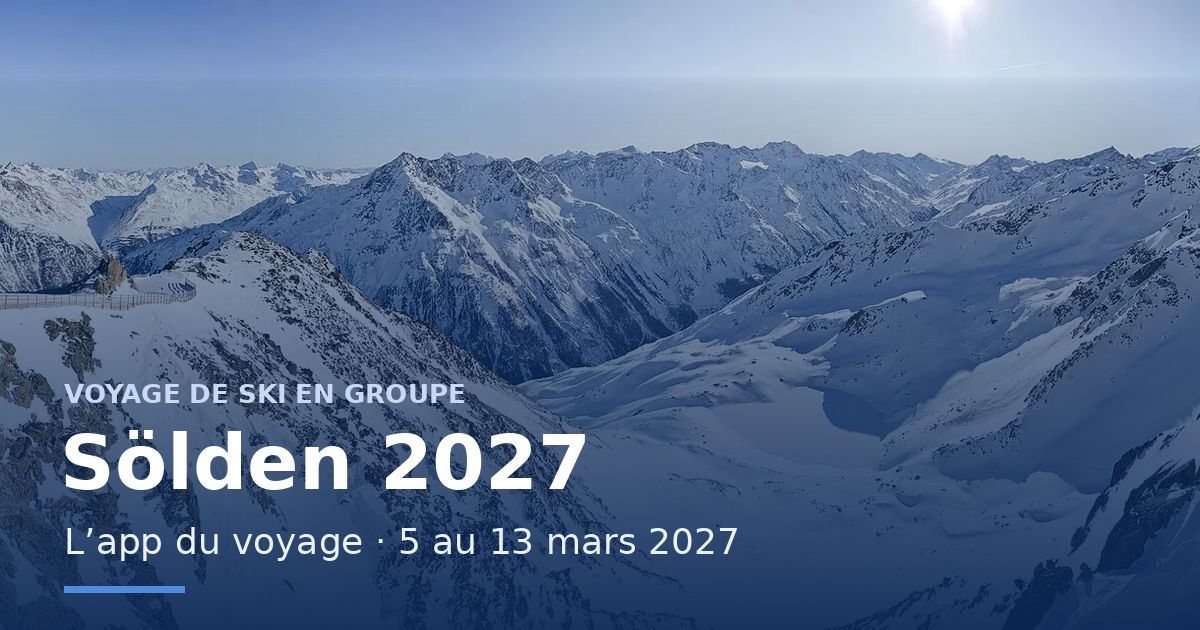
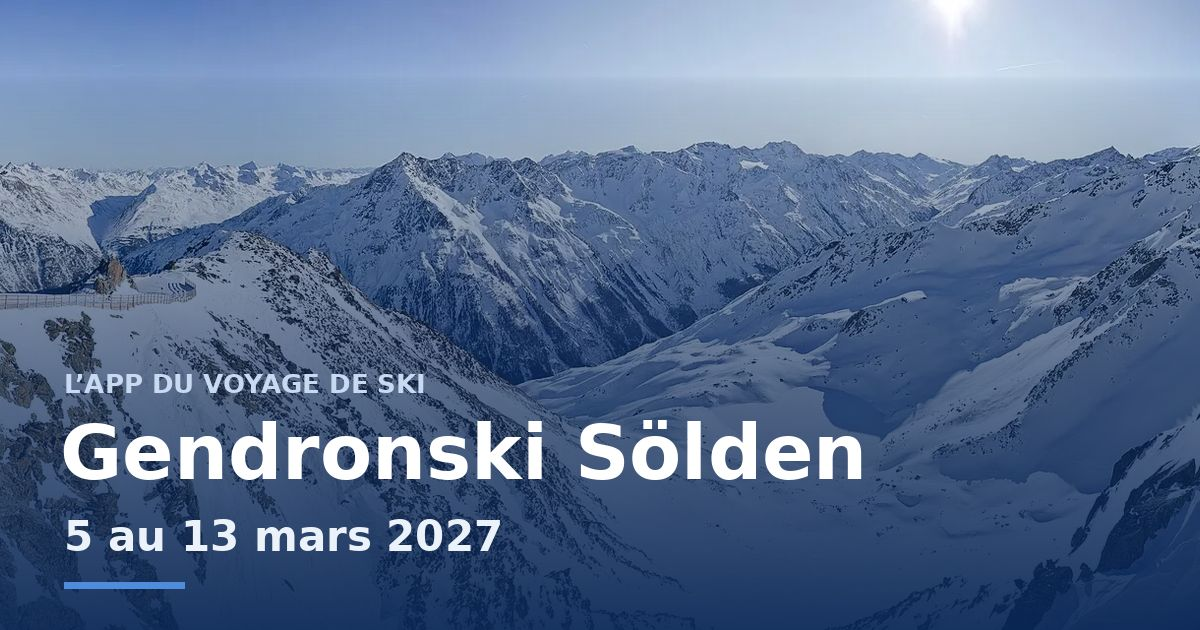
Add files via upload

Changed region(s): [[0.0308, 0.573, 0.74, 0.7841], [0.0308, 0.8143, 0.6167, 0.9651]]

diff --git a/index.html b/index.html
@@ -3,14 +3,14 @@
 <head>
 <meta charset="utf-8">
 <meta name="viewport" content="width=device-width,initial-scale=1,viewport-fit=cover">
-<title>Sölden 2027 · Voyage de ski</title>
+<title>Gendronski Sölden · 5 au 13 mars 2027</title>
 <meta name="description" content="L’app du voyage de ski en groupe à Sölden, du 5 au 13 mars 2027 : programme, annonces, pistes ouvertes, carte et infos pratiques.">
 <meta name="theme-color" content="#13509f">
 <meta property="og:type" content="website">
 <meta property="og:site_name" content="Mon accompagnateur">
 <meta property="og:locale" content="fr_CA">
 <meta property="og:url" content="https://monaccompagnateur.ca/solden-voyage-2027/">
-<meta property="og:title" content="Sölden 2027 · L’app du voyage">
+<meta property="og:title" content="Gendronski Sölden · 5 au 13 mars 2027">
 <meta property="og:description" content="Voyage de ski en groupe du 5 au 13 mars 2027 : programme, annonces, pistes ouvertes, météo et carte GPS.">
 <meta property="og:image" content="https://monaccompagnateur.ca/solden-voyage-2027/og.jpg">
 <meta property="og:image:width" content="1200">
@@ -38,11 +38,12 @@ button:disabled{opacity:.55}
 /* En-tête */
 .hero{position:relative;color:#fff;background:var(--pine-d) center/cover no-repeat;min-height:210px;display:flex;align-items:flex-end}
 .hero:after{content:"";position:absolute;inset:0;background:linear-gradient(0deg,#082a5cf0 0%,#0b3a78b0 45%,#0b3a7838 100%)}
-body:not(.on-accueil) .hero{min-height:118px}body:not(.on-accueil) .hero h1{font-size:30px}body:not(.on-accueil) .hero p:not(.overline){display:none}body:not(.on-accueil) .credit{display:none}
+body:not(.on-accueil) .hero{min-height:118px}body:not(.on-accueil) .hero h1{font-size:30px}body:not(.on-accueil) .hero .h-dates{font-size:16px;margin-top:2px}body:not(.on-accueil) .hero .overline{display:none}body:not(.on-accueil) .credit{display:none}
 .hero .wrap{position:relative;z-index:1;width:100%;padding-top:calc(28px + env(safe-area-inset-top));padding-bottom:20px}
 .hero .overline{color:#ffffffd0}
 .hero h1{font-size:44px;letter-spacing:-1px}
 .hero p{margin:6px 0 0;font-size:15px;color:#ffffffe0}
+.hero .h-dates{margin:4px 0 0;font-size:24px;font-weight:700;letter-spacing:-.3px;color:#fff}
 .credit{font-size:9px;color:var(--muted);padding:5px 16px;text-align:right}
 .credit a{color:inherit}
 /* Onglets */
@@ -206,7 +207,7 @@ details.more summary{cursor:pointer;color:var(--pine);font-size:13px;margin-top:
 .ul{margin:0;padding-left:18px}.ul li{margin:4px 0}
 .foot{text-align:center;font-size:11px;color:var(--muted);padding:18px 0 26px}
 .verif{background:#f5e6e4;color:#97302b;border:1px solid #e3b7b2;border-radius:10px;padding:10px 14px;font-size:13px;margin:0 0 12px;white-space:pre-wrap}
-@media(max-width:420px){.hero h1{font-size:38px}.facts{grid-template-columns:1fr}}
+@media(max-width:420px){.hero h1{font-size:36px}.hero .h-dates{font-size:21px}.facts{grid-template-columns:1fr}}
 @media print{nav.tabs,.mapbox,.mapbar{display:none!important}.view[hidden]{display:block!important}body{padding:0}}
 </style>
 <style id="leaflet-css">
@@ -886,9 +887,9 @@ svg.leaflet-image-layer.leaflet-interactive path {
 <body>
 <header class="hero" style="background-image:url('hero.webp')">
   <div class="wrap">
-    <p class="overline" id="h-dates">5 – 13 mars 2027 · Ötztal, Autriche</p>
-    <h1 id="h-title">Sölden 2027</h1>
-    <p id="h-sub">Voyage de ski en groupe</p>
+    <p class="overline" id="h-sub">Ötztal · Autriche</p>
+    <h1 id="h-title">Gendronski Sölden</h1>
+    <p class="h-dates" id="h-dates">5 au 13 mars 2027</p>
   </div>
 </header>
 <p class="credit">Photo : Gaislachkogl, Sloth · <a href="https://creativecommons.org/licenses/by/3.0/" target="_blank" rel="noopener">CC BY 3.0</a> · <a href="https://commons.wikimedia.org/wiki/File:Gaislachkogl,_3058_m_-_panoramio.jpg" target="_blank" rel="noopener">source</a></p>
@@ -1052,7 +1053,7 @@ svg.leaflet-image-layer.leaflet-interactive path {
 </section>
 </main>
 
-<script id="voyage-defaut" type="application/json">{"titre": "Sölden 2027", "sousTitre": "Voyage de ski en groupe", "debut": "2027-03-05", "fin": "2027-03-13", "niveau": "Intermédiaire-avancé", "accompagnateur": {"nom": "Mathieu", "role": "Votre accompagnateur", "courriel": ""}, "annonces": [{"date": "2026-11-03T07:00", "fuseau": "America/Montreal", "texte": "Bienvenue dans l’app du voyage! Installez-la sur votre écran d’accueil (Partager › Sur l’écran d’accueil). Le programme et les annonces se mettront à jour ici jusqu’au départ."}], "avantDepart": [{"date": "2027-02-19", "fuseau": "America/Montreal", "heure": "", "titre": "Réunion d’information sur Teams", "lieu": "En ligne · Microsoft Teams", "note": "Infos générales sur le voyage et réponses à vos questions. Date et heure à confirmer; le lien de la réunion sera envoyé dans le groupe WhatsApp.", "lien": "", "lienTexte": "Rejoindre la réunion Teams", "rdv": true, "aConfirmer": true}], "programme": [{"date": "2027-03-05", "fuseau": "America/Montreal", "titre": "Départ de Montréal", "items": [{"heure": "14:45", "titre": "Rendez-vous à la porte d’embarquement", "lieu": "Aéroport Montréal-Trudeau (YUL)", "note": "Rendez-vous 2 h avant le départ. Prévoyez d’arriver à l’aéroport assez tôt pour l’enregistrement des bagages et la sécurité. Je vous y attendrai avec une affiche GENDRONSKI.", "rdv": true}, {"heure": "16:45", "titre": "Vol Montréal → Zurich", "lieu": "Swiss · YUL → ZRH", "note": "Vol de nuit. Gardez dans votre bagage à main : passeport, médicaments, chargeur et une tenue de rechange."}]}, {"date": "2027-03-06", "fuseau": "Europe/Vienna", "titre": "Arrivée et bienvenue", "items": [{"heure": "06:15", "titre": "Arrivée à Zurich", "lieu": "Aéroport de Zurich (ZRH)", "note": "Arrivée vers 6 h 15. Point de rencontre au carrousel à bagages, avant de sortir de l’aérogare.", "aConfirmer": false, "rdv": true}, {"heure": "", "titre": "Transfert vers Sölden", "lieu": "Zurich → Sölden", "note": "Transfert en autocar vers Sölden.", "aConfirmer": false}, {"heure": "12:00", "titre": "Installation à l’hôtel", "lieu": "Hotel Bäckelar Wirt", "note": "Arrivée à l’hôtel vers 12 h.", "aConfirmer": false}, {"heure": "18:00", "titre": "Cocktail de bienvenue", "lieu": "Bar de l’hôtel Bäckelar Wirt", "note": "Présentation du programme de la semaine et remise des forfaits de ski.", "rdv": true}]}, {"date": "2027-03-07", "fuseau": "Europe/Vienna", "titre": "Ski", "items": [{"heure": "", "titre": "Journée de ski", "lieu": "Domaine de Sölden", "note": "Programme de la journée à venir.", "aConfirmer": true}]}, {"date": "2027-03-08", "fuseau": "Europe/Vienna", "titre": "Ski", "items": [{"heure": "", "titre": "Journée de ski", "lieu": "Domaine de Sölden", "note": "Programme de la journée à venir.", "aConfirmer": true}]}, {"date": "2027-03-09", "fuseau": "Europe/Vienna", "titre": "Ski", "items": [{"heure": "", "titre": "Journée de ski", "lieu": "Domaine de Sölden", "note": "Programme de la journée à venir.", "aConfirmer": true}]}, {"date": "2027-03-10", "fuseau": "Europe/Vienna", "titre": "Ski", "items": [{"heure": "", "titre": "Journée de ski", "lieu": "Domaine de Sölden", "note": "Programme de la journée à venir.", "aConfirmer": true}]}, {"date": "2027-03-11", "fuseau": "Europe/Vienna", "titre": "Ski", "items": [{"heure": "", "titre": "Journée de ski", "lieu": "Domaine de Sölden", "note": "Programme de la journée à venir.", "aConfirmer": true}]}, {"date": "2027-03-12", "fuseau": "Europe/Vienna", "titre": "Ski", "items": [{"heure": "", "titre": "Journée de ski", "lieu": "Domaine de Sölden", "note": "Dernière journée sur les pistes. Récupérez vos skis et vos bottes au local à skis avant 18 h. Programme à venir.", "aConfirmer": true}]}, {"date": "2027-03-13", "fuseau": "Europe/Vienna", "titre": "Retour", "items": [{"heure": "05:30", "titre": "Départ de l’hôtel", "lieu": "Hotel Bäckelar Wirt", "note": "Libération des chambres avant 5 h 30. Heure de départ du transfert à confirmer.", "aConfirmer": true}, {"heure": "", "titre": "Vol de retour vers Montréal", "lieu": "Zurich → Montréal", "note": "Horaire à confirmer.", "aConfirmer": true}]}], "lieux": [{"id": "hotel", "nom": "Hotel Bäckelar Wirt", "detail": "Dorfstraße 125, 6450 Sölden", "lat": 46.95866, "lng": 11.00943}], "hotel": {"nom": "Hotel Bäckelar Wirt", "adresse": "Dorfstraße 125, 6450 Sölden, Autriche", "points": ["À côté de la gare aval de la télécabine Gaislachkogl; la piste se termine à environ 80 m de l’hôtel.", "Arrêt de ski-bus juste devant l’hôtel.", "Local à skis avec sèche-chaussures.", "Sauna, bain de vapeur et cabine infrarouge.", "Arrivée de 14 h à 21 h · départ avant 10 h (fiche de l’hôtel, à confirmer pour le groupe)."]}, "bagages": {"soute": [{"t": "Sac à skis", "d": "Skis et bâtons"}, {"t": "Sac à bottes", "d": "Bottes de ski"}, {"t": "1 bagage de 23 kg", "d": "Vêtements et effets personnels"}], "noteSoute": "Le sac à skis et le sac à bottes sont en plus du bagage de 23 kg.", "cabine": [{"t": "1 bagage à main", "d": "Format cabine, dans le compartiment au-dessus du siège"}, {"t": "1 sac personnel", "d": "Sac à dos ou sac à main, sous le siège devant vous"}], "important": "Très important : les batteries externes et les batteries au lithium voyagent avec vous en cabine, jamais en soute.", "conseils": ["Gardez dans votre bagage à main : passeport, médicaments, chargeur et une tenue de rechange.", "Mettez une étiquette à votre nom sur chaque sac."]}, "documents": {"liste": ["Passeport valide au moins 3 mois après la date de retour", "Assurance voyage : numéro de police et téléphone d’assistance", "Carte de crédit et un peu d’euros", "Confirmation de vol et documents de voyage reçus de Gendron Ski"], "notes": ["À l’arrivée en Europe, un contrôle biométrique (empreintes et photo) est fait au premier passage à la frontière : prévoyez un peu d’attente à Zurich."]}, "infosSki": ["Niveau du groupe : intermédiaire-avancé. Les suggestions sont surtout des pistes rouges, avec quelques bleues pour varier ou souffler.", "Forfait, location de skis et cours : les détails seront donnés au cocktail de bienvenue.", "Avant chaque journée, consultez l’onglet Ski pour voir les remontées et pistes ouvertes."], "organisateur": {"nom": "Gendron Ski", "site": "https://www.voyagesgendron.com/ski/"}, "liens": [{"type": "whatsapp", "titre": "Groupe WhatsApp du voyage", "url": "https://chat.whatsapp.com/JQN05rN1hKiBw5gP0Eb2wo"}, {"type": "facebook", "titre": "Groupe Facebook du voyage", "url": "https://www.facebook.com/share/g/1CKP25dum8/?mibextid=wwXIfr"}, {"type": "site", "titre": "Gendron Ski", "url": "https://www.voyagesgendron.com/ski/"}], "meteo": {"points": [{"domaine": "soelden", "nom": "Village", "lat": 46.9655, "lng": 11.0076, "altitude": 1370}, {"domaine": "soelden", "nom": "Mi-station", "lat": 46.95, "lng": 10.986, "altitude": 2174}, {"domaine": "soelden", "nom": "Sommets", "lat": 46.937, "lng": 10.965, "altitude": 3040}, {"domaine": "gurgl", "nom": "Village", "lat": 46.8705, "lng": 11.0272, "altitude": 1910}, {"domaine": "gurgl", "nom": "Sommets", "lat": 46.8807, "lng": 11.0858, "altitude": 3000}]}, "webcams": [{"domaine": "soelden", "nom": "Village", "altitude": 1377, "image": "https://panodata.panomax.com/cams/5572/mobile_800x600.jpg", "lien": "https://soelden.panomax.com/ort-winter"}, {"domaine": "soelden", "nom": "Gaislachkogl · mi-station", "altitude": 2174, "image": "https://panodata.panomax.com/cams/6657/mobile_800x600.jpg", "lien": "https://soelden.panomax.com/gaislachkogl-mittelstation"}, {"domaine": "soelden", "nom": "Gaislachkogl · sommet", "altitude": 3048, "image": "https://wtvpict.feratel.com/picture/37/5761.jpeg?dcsdesign=feratel4", "lien": "https://webtv.feratel.com/webtv/?cam=5761&design=v4&c2=0&c8=0"}, {"domaine": "soelden", "nom": "Hochsölden", "altitude": 2077, "image": "https://panodata.panomax.com/cams/501/mobile_800x600.jpg", "lien": "https://soelden.panomax.com/hochsoelden"}, {"domaine": "soelden", "nom": "Giggijoch", "altitude": 2290, "image": "https://wtvpict.feratel.com/picture/37/5762.jpeg?dcsdesign=feratel4", "lien": "https://webtv.feratel.com/webtv/?cam=5762&design=v4&c2=0&c8=0"}, {"domaine": "soelden", "nom": "Schwarzkogl · gare aval", "altitude": 2580, "image": "https://panodata.panomax.com/cams/6666/mobile_800x600.jpg", "lien": "https://soelden.panomax.com/schwarzkogl-talstation"}, {"domaine": "soelden", "nom": "Seekogl", "altitude": 2662, "image": "https://wtvpict.feratel.com/picture/37/5760.jpeg?dcsdesign=feratel4", "lien": "https://webtv.feratel.com/webtv/?cam=5760&design=v4&c2=0&c8=0"}, {"domaine": "soelden", "nom": "Glacier de Rettenbach", "altitude": 2680, "image": "https://panodata.panomax.com/cams/196/mobile_800x600.jpg", "lien": "https://soelden.panomax.com/rettenbach"}, {"domaine": "soelden", "nom": "Schwarze Schneid · mi-station", "altitude": 3000, "image": "https://panodata.panomax.com/cams/216/mobile_800x600.jpg", "lien": "https://soelden.panomax.com/schwarzeschneid"}, {"domaine": "soelden", "nom": "Glacier de Tiefenbach · gare aval", "altitude": 2800, "image": "https://panodata.panomax.com/cams/195/mobile_800x600.jpg", "lien": "https://soelden.panomax.com/tiefenbach"}, {"domaine": "soelden", "nom": "Glacier de Tiefenbach · sommet", "altitude": 3250, "image": "https://panodata.panomax.com/cams/6660/mobile_800x600.jpg", "lien": "https://soelden.panomax.com/tiefenbachkogl-felssteg"}, {"domaine": "gurgl", "nom": "Hochgurgl", "altitude": 2410, "image": "https://wtvpict.feratel.com/picture/37/5570.jpeg?dcsdesign=feratel4", "lien": "https://webtv.feratel.com/webtv/?design=v5&cam=5570&c2=0&c8=0"}, {"domaine": "gurgl", "nom": "Crosspoint", "altitude": 2157, "image": "https://wtvpict.feratel.com/picture/37/5571.jpeg?dcsdesign=feratel4", "lien": "https://webtv.feratel.com/webtv/?design=v5&cam=5571&c2=0&c8=0"}, {"domaine": "gurgl", "nom": "Hohe Mut", "altitude": 2670, "image": "https://wtvpict.feratel.com/picture/37/5650.jpeg?dcsdesign=feratel4", "lien": "https://webtv.feratel.com/webtv/?design=v5&cam=5650&c2=0&c8=0"}, {"domaine": "gurgl", "nom": "Festkogl", "altitude": 2670, "image": "https://wtvpict.feratel.com/picture/37/5651.jpeg?dcsdesign=feratel4", "lien": "https://webtv.feratel.com/webtv/?design=v5&cam=5651&c2=0&c8=0"}]}</script>
+<script id="voyage-defaut" type="application/json">{"titre": "Gendronski Sölden", "datesTexte": "5 au 13 mars 2027", "sousTitre": "Voyage de ski en groupe", "debut": "2027-03-05", "fin": "2027-03-13", "niveau": "Intermédiaire-avancé", "accompagnateur": {"nom": "Mathieu", "role": "Votre accompagnateur", "courriel": ""}, "annonces": [{"date": "2026-11-03T07:00", "fuseau": "America/Montreal", "texte": "Bienvenue dans l’app du voyage! Installez-la sur votre écran d’accueil (Partager › Sur l’écran d’accueil). Le programme et les annonces se mettront à jour ici jusqu’au départ."}], "avantDepart": [{"date": "2027-02-22", "fuseau": "America/Montreal", "heure": "", "titre": "Réunion d’information sur Teams", "lieu": "En ligne · Microsoft Teams", "note": "Infos générales sur le voyage et réponses à vos questions. Date et heure à confirmer; le lien de la réunion sera envoyé dans le groupe WhatsApp.", "lien": "", "lienTexte": "Rejoindre la réunion Teams", "rdv": true, "aConfirmer": true}], "programme": [{"date": "2027-03-05", "fuseau": "America/Montreal", "titre": "Départ de Montréal", "items": [{"heure": "14:45", "titre": "Rendez-vous à la porte d’embarquement", "lieu": "Aéroport Montréal-Trudeau (YUL)", "note": "Rendez-vous 2 h avant le départ. Prévoyez d’arriver à l’aéroport assez tôt pour l’enregistrement des bagages et la sécurité. Je vous y attendrai avec une affiche GENDRONSKI.", "rdv": true}, {"heure": "16:45", "titre": "Vol Montréal → Zurich", "lieu": "Swiss · YUL → ZRH", "note": "Vol de nuit. Gardez dans votre bagage à main : passeport, médicaments, chargeur et batteries."}]}, {"date": "2027-03-06", "fuseau": "Europe/Vienna", "titre": "Arrivée et bienvenue", "items": [{"heure": "06:15", "titre": "Arrivée à Zurich", "lieu": "Aéroport de Zurich (ZRH)", "note": "Arrivée vers 6 h 15. Point de rencontre au carrousel à bagages, avant de sortir de l’aérogare.", "aConfirmer": false, "rdv": true}, {"heure": "", "titre": "Transfert vers Sölden", "lieu": "Zurich → Sölden", "note": "Transfert en autocar vers Sölden.", "aConfirmer": false}, {"heure": "12:00", "titre": "Installation à l’hôtel", "lieu": "Hotel Bäckelar Wirt", "note": "Arrivée à l’hôtel vers 12 h.", "aConfirmer": false}, {"heure": "18:00", "titre": "Cocktail de bienvenue", "lieu": "Bar de l’hôtel Bäckelar Wirt", "note": "Présentation du programme de la semaine et remise des forfaits de ski.", "rdv": true}]}, {"date": "2027-03-07", "fuseau": "Europe/Vienna", "titre": "Ski", "items": [{"heure": "", "titre": "Journée de ski", "lieu": "Domaine de Sölden", "note": "Programme de la journée à venir.", "aConfirmer": true}]}, {"date": "2027-03-08", "fuseau": "Europe/Vienna", "titre": "Ski", "items": [{"heure": "", "titre": "Journée de ski", "lieu": "Domaine de Sölden", "note": "Programme de la journée à venir.", "aConfirmer": true}]}, {"date": "2027-03-09", "fuseau": "Europe/Vienna", "titre": "Ski", "items": [{"heure": "", "titre": "Journée de ski", "lieu": "Domaine de Sölden", "note": "Programme de la journée à venir.", "aConfirmer": true}]}, {"date": "2027-03-10", "fuseau": "Europe/Vienna", "titre": "Ski", "items": [{"heure": "", "titre": "Journée de ski", "lieu": "Domaine de Sölden", "note": "Programme de la journée à venir.", "aConfirmer": true}]}, {"date": "2027-03-11", "fuseau": "Europe/Vienna", "titre": "Ski", "items": [{"heure": "", "titre": "Journée de ski", "lieu": "Domaine de Sölden", "note": "Programme de la journée à venir.", "aConfirmer": true}]}, {"date": "2027-03-12", "fuseau": "Europe/Vienna", "titre": "Ski", "items": [{"heure": "", "titre": "Journée de ski", "lieu": "Domaine de Sölden", "note": "Dernière journée sur les pistes. Récupérez vos skis et vos bottes au local à skis avant 18 h. Programme à venir.", "aConfirmer": true}]}, {"date": "2027-03-13", "fuseau": "Europe/Vienna", "titre": "Retour", "items": [{"heure": "05:30", "titre": "Départ de l’hôtel", "lieu": "Hotel Bäckelar Wirt", "note": "Libération des chambres avant 5 h 30. Heure de départ du transfert à confirmer.", "aConfirmer": true}, {"heure": "", "titre": "Vol de retour vers Montréal", "lieu": "Zurich → Montréal", "note": "Horaire à confirmer.", "aConfirmer": true}]}], "lieux": [{"id": "hotel", "nom": "Hotel Bäckelar Wirt", "detail": "Dorfstraße 125, 6450 Sölden", "lat": 46.95866, "lng": 11.00943}], "hotel": {"nom": "Hotel Bäckelar Wirt", "adresse": "Dorfstraße 125, 6450 Sölden, Autriche", "points": ["À côté de la gare aval de la télécabine Gaislachkogl; la piste se termine à environ 80 m de l’hôtel.", "Arrêt de ski-bus juste devant l’hôtel.", "Local à skis avec sèche-chaussures.", "Sauna, bain de vapeur et cabine infrarouge.", "Arrivée de 14 h à 21 h · départ avant 10 h (fiche de l’hôtel, à confirmer pour le groupe)."]}, "bagages": {"soute": [{"t": "Sac à skis", "d": "Skis et bâtons"}, {"t": "Sac à bottes", "d": "Bottes de ski et casque de ski"}, {"t": "1 bagage de 23 kg", "d": "Vêtements et effets personnels"}], "noteSoute": "Le sac à skis et le sac à bottes sont en plus du bagage de 23 kg. Ensemble, ils ne doivent pas dépasser 23 kg.", "cabine": [{"t": "1 bagage à main", "d": "Format cabine, dans le compartiment au-dessus du siège"}, {"t": "1 sac personnel", "d": "Sac à dos ou sac à main, sous le siège devant vous"}], "important": "Très important : les batteries externes et les batteries au lithium voyagent avec vous en cabine, jamais en soute.", "conseils": ["Gardez dans votre bagage à main : passeport, médicaments, chargeur et vos batteries.", "Mettez une étiquette à votre nom sur chaque sac."]}, "documents": {"liste": ["Passeport valide au moins 3 mois après la date de retour", "Assurance voyage : numéro de police et téléphone d’assistance", "Carte de crédit et un peu d’euros", "Confirmation de vol et documents de voyage reçus de Gendron Ski"], "notes": ["À l’arrivée en Europe, un contrôle biométrique (empreintes et photo) est fait au premier passage à la frontière : prévoyez un peu d’attente à Zurich."]}, "infosSki": ["Niveau du groupe : intermédiaire-avancé. Les suggestions sont surtout des pistes rouges, avec quelques bleues pour varier ou souffler.", "Forfait, location de skis et cours : les détails seront donnés au cocktail de bienvenue.", "Avant chaque journée, consultez l’onglet Ski pour voir les remontées et pistes ouvertes."], "organisateur": {"nom": "Gendron Ski", "site": "https://www.voyagesgendron.com/ski/"}, "liens": [{"type": "whatsapp", "titre": "Groupe WhatsApp du voyage", "url": "https://chat.whatsapp.com/JQN05rN1hKiBw5gP0Eb2wo"}, {"type": "facebook", "titre": "Groupe Facebook du voyage", "url": "https://www.facebook.com/share/g/1CKP25dum8/?mibextid=wwXIfr"}, {"type": "site", "titre": "Gendron Ski", "url": "https://www.voyagesgendron.com/ski/"}], "meteo": {"points": [{"domaine": "soelden", "nom": "Village", "lat": 46.9655, "lng": 11.0076, "altitude": 1370}, {"domaine": "soelden", "nom": "Mi-station", "lat": 46.95, "lng": 10.986, "altitude": 2174}, {"domaine": "soelden", "nom": "Sommets", "lat": 46.937, "lng": 10.965, "altitude": 3040}, {"domaine": "gurgl", "nom": "Village", "lat": 46.8705, "lng": 11.0272, "altitude": 1910}, {"domaine": "gurgl", "nom": "Sommets", "lat": 46.8807, "lng": 11.0858, "altitude": 3000}]}, "webcams": [{"domaine": "soelden", "nom": "Village", "altitude": 1377, "image": "https://panodata.panomax.com/cams/5572/mobile_800x600.jpg", "lien": "https://soelden.panomax.com/ort-winter"}, {"domaine": "soelden", "nom": "Gaislachkogl · mi-station", "altitude": 2174, "image": "https://panodata.panomax.com/cams/6657/mobile_800x600.jpg", "lien": "https://soelden.panomax.com/gaislachkogl-mittelstation"}, {"domaine": "soelden", "nom": "Gaislachkogl · sommet", "altitude": 3048, "image": "https://wtvpict.feratel.com/picture/37/5761.jpeg?dcsdesign=feratel4", "lien": "https://webtv.feratel.com/webtv/?cam=5761&design=v4&c2=0&c8=0"}, {"domaine": "soelden", "nom": "Hochsölden", "altitude": 2077, "image": "https://panodata.panomax.com/cams/501/mobile_800x600.jpg", "lien": "https://soelden.panomax.com/hochsoelden"}, {"domaine": "soelden", "nom": "Giggijoch", "altitude": 2290, "image": "https://wtvpict.feratel.com/picture/37/5762.jpeg?dcsdesign=feratel4", "lien": "https://webtv.feratel.com/webtv/?cam=5762&design=v4&c2=0&c8=0"}, {"domaine": "soelden", "nom": "Schwarzkogl · gare aval", "altitude": 2580, "image": "https://panodata.panomax.com/cams/6666/mobile_800x600.jpg", "lien": "https://soelden.panomax.com/schwarzkogl-talstation"}, {"domaine": "soelden", "nom": "Seekogl", "altitude": 2662, "image": "https://wtvpict.feratel.com/picture/37/5760.jpeg?dcsdesign=feratel4", "lien": "https://webtv.feratel.com/webtv/?cam=5760&design=v4&c2=0&c8=0"}, {"domaine": "soelden", "nom": "Glacier de Rettenbach", "altitude": 2680, "image": "https://panodata.panomax.com/cams/196/mobile_800x600.jpg", "lien": "https://soelden.panomax.com/rettenbach"}, {"domaine": "soelden", "nom": "Schwarze Schneid · mi-station", "altitude": 3000, "image": "https://panodata.panomax.com/cams/216/mobile_800x600.jpg", "lien": "https://soelden.panomax.com/schwarzeschneid"}, {"domaine": "soelden", "nom": "Glacier de Tiefenbach · gare aval", "altitude": 2800, "image": "https://panodata.panomax.com/cams/195/mobile_800x600.jpg", "lien": "https://soelden.panomax.com/tiefenbach"}, {"domaine": "soelden", "nom": "Glacier de Tiefenbach · sommet", "altitude": 3250, "image": "https://panodata.panomax.com/cams/6660/mobile_800x600.jpg", "lien": "https://soelden.panomax.com/tiefenbachkogl-felssteg"}, {"domaine": "gurgl", "nom": "Hochgurgl", "altitude": 2410, "image": "https://wtvpict.feratel.com/picture/37/5570.jpeg?dcsdesign=feratel4", "lien": "https://webtv.feratel.com/webtv/?design=v5&cam=5570&c2=0&c8=0"}, {"domaine": "gurgl", "nom": "Crosspoint", "altitude": 2157, "image": "https://wtvpict.feratel.com/picture/37/5571.jpeg?dcsdesign=feratel4", "lien": "https://webtv.feratel.com/webtv/?design=v5&cam=5571&c2=0&c8=0"}, {"domaine": "gurgl", "nom": "Hohe Mut", "altitude": 2670, "image": "https://wtvpict.feratel.com/picture/37/5650.jpeg?dcsdesign=feratel4", "lien": "https://webtv.feratel.com/webtv/?design=v5&cam=5650&c2=0&c8=0"}, {"domaine": "gurgl", "nom": "Festkogl", "altitude": 2670, "image": "https://wtvpict.feratel.com/picture/37/5651.jpeg?dcsdesign=feratel4", "lien": "https://webtv.feratel.com/webtv/?design=v5&cam=5651&c2=0&c8=0"}]}</script>
 <script id="ski-data" type="application/json">{"picks": {"soelden": [{"num": "1", "level": "red", "levelLabel": "Rouge · moyenne", "sector": "Gaislachkogl", "length": 3000, "title": "La signature Gaislachkogl", "text": "Descente rouge du secteur Gaislachkogl; associer la sortie au panorama du sommet et à l’univers James Bond.", "mapUrl": "https://maps.oetztal.com/panorama/de/S%C3%B6lden%20Winterpanorama/2d/pano_soelden/detail/-1/-1/-1/26361,26360/122079989/?disableScrollZoom=true&lang=en", "feedId": "R_69461"}, {"num": "11", "level": "red", "levelLabel": "Rouge · moyenne", "sector": "Giggijoch", "length": 9000, "title": "La rouge et la bonne table", "text": "Rouge du Giggijoch; Gampe Thaya annonce directement un accès par la piste nº 11. Prévoir cette pause avant de quitter le secteur.", "mapUrl": "https://maps.oetztal.com/panorama/de/S%C3%B6lden%20Winterpanorama/2d/pano_soelden/detail/-1/-1/-1/26361,26360/122080004?lang=en", "feedId": "R_69463"}, {"num": "18", "level": "red", "levelLabel": "Rouge · moyenne", "sector": "Giggijoch", "length": 1500, "title": "Varier au Giggijoch", "text": "Rouge du catalogue Giggijoch. Le lien de l’ancien plan a été remplacé par son objet Intermaps vérifié.", "mapUrl": "https://winter.intermaps.com/soelden?lang=en&focus=R_69443_group", "feedId": "R_69443"}, {"num": "4", "level": "red", "levelLabel": "Rouge · moyenne", "sector": "Gaislachkogl", "length": 5500, "title": "Une rouge au Gaislachkogl", "text": "La nº 4 figure dans le catalogue du Gaislachkogl. La situer sur le plan pour bâtir une boucle depuis votre secteur de départ.", "mapUrl": "https://maps.oetztal.com/panorama/de/S%C3%B6lden%20Winterpanorama/2d/pano_soelden/detail/-1/-1/-1/26361,26360/122079996?lang=en", "feedId": "R_69487"}, {"num": "5", "level": "red", "levelLabel": "Rouge · moyenne", "sector": "Gaislachkogl", "length": 1600, "title": "Varier les rouges du Gaislachkogl", "text": "Rouge nº 5 du catalogue, distincte de la variante 5a; les mesures de pente individuelles restent non publiées.", "mapUrl": "https://maps.oetztal.com/panorama/de/S%C3%B6lden%20Winterpanorama/2d/pano_soelden/detail/-1/-1/-1/26361,26360/122079997?lang=en", "feedId": "R_69490"}, {"num": "12", "level": "red", "levelLabel": "Rouge · moyenne", "sector": "Giggijoch", "length": 4100, "title": "Le Giggijoch en rouge", "text": "Rouge nº 12 du catalogue Giggijoch, pour compléter les propositions de ce secteur sans changer sa difficulté officielle.", "mapUrl": "https://maps.oetztal.com/panorama/de/S%C3%B6lden%20Winterpanorama/2d/pano_soelden/detail/-1/-1/-1/26361,26360/122080005?lang=en", "feedId": "R_69464"}, {"num": "38", "level": "blue", "levelLabel": "Bleue · facile", "sector": "Glaciers", "length": 8400, "title": "L’horizon du Tiefenbach", "text": "Repère de la liaison des deux glaciers dans le parcours BIG3 : nº 32 puis tunnel et nº 38, selon le descriptif officiel.", "mapUrl": "https://maps.oetztal.com/panorama/de/S%C3%B6lden%20Winterpanorama/2d/pano_soelden/detail/-1/-1/-1/26361,26360/122080025?lang=en", "feedId": "R_69483"}, {"num": "32", "level": "blue", "levelLabel": "Bleue · facile", "sector": "Glaciers", "length": 6300, "title": "Le passage vers le tunnel", "text": "Repère de la liaison des deux glaciers dans le parcours BIG3 : nº 32 puis tunnel et nº 38, selon le descriptif officiel.", "mapUrl": "https://maps.oetztal.com/panorama/de/S%C3%B6lden%20Winterpanorama/2d/pano_soelden/detail/-1/-1/-1/26361,26360/122080020?lang=en", "feedId": "R_69481"}], "gurgl": [{"num": "7", "level": "red", "levelLabel": "Rouge · moyenne", "sector": "Obergurgl", "length": 6750, "title": "Le Plattach", "text": "Rouge Plattach, à distinguer de sa variante 7a et des noires 8/8a du même secteur.", "mapUrl": "https://winter.intermaps.com/obergurgl_hochgurgl?lang=en&focus=R_84686_group", "feedId": "R_84686"}, {"num": "12", "level": "red", "levelLabel": "Rouge · moyenne", "sector": "Obergurgl", "length": 4980, "title": "La rouge Festkogl", "text": "Choisissez la Talabfahrt nº 12 : elle possède un identifiant distinct de l’autre rouge nº 12 Festkogl.", "mapUrl": "https://winter.intermaps.com/obergurgl_hochgurgl?lang=en&focus=R_84728_group", "feedId": "R_84728"}, {"num": "30", "level": "red", "levelLabel": "Rouge · moyenne", "sector": "Hochgurgl", "length": 5990, "title": "Le versant Schermer", "text": "Rouge recommandée par la station pour les skieurs ayant de la pratique du carving. Le titre Schermer est descriptif, pas le nom du catalogue.", "mapUrl": "https://winter.intermaps.com/obergurgl_hochgurgl?lang=en&focus=R_84757_group", "feedId": "R_84757"}, {"num": "1", "level": "red", "levelLabel": "Rouge · moyenne", "sector": "Obergurgl", "length": 1620, "title": "La rouge Hohe Mut", "text": "Rouge Hohe Mut selon le catalogue. La page de conseils insiste sur son caractère soutenu; une couleur ne résume pas les conditions.", "mapUrl": "https://winter.intermaps.com/obergurgl_hochgurgl?lang=en&focus=R_84724_group", "feedId": "R_84724"}, {"num": "5", "level": "red", "levelLabel": "Rouge · moyenne", "sector": "Obergurgl", "length": 3250, "title": "Le Steinmann en rouge", "text": "Rouge Steinmann, distincte des bleues 4 et 4a du même secteur. Vérifier la boucle sur le plan avant de partir.", "mapUrl": "https://winter.intermaps.com/obergurgl_hochgurgl?lang=en&focus=R_84751_group", "feedId": "R_84751"}, {"num": "42", "level": "red", "levelLabel": "Rouge · moyenne", "sector": "Hochgurgl", "length": 1200, "title": "Une rouge à Kirchenkar", "text": "La nº 42 est classée rouge dans le catalogue Hochgurgl. Repérage local et conditions du jour restent nécessaires.", "mapUrl": "https://winter.intermaps.com/obergurgl_hochgurgl?lang=en&focus=R_84747_group", "feedId": "R_84747"}, {"num": "6", "level": "blue", "levelLabel": "Bleue · facile", "sector": "Obergurgl", "length": 10980, "title": "La Familienabfahrt", "text": "L’entrée bleue Familienabfahrt est distincte de la petite nº 6 Wiesenlift. Suivre le nom complet sur le plan.", "mapUrl": "https://winter.intermaps.com/obergurgl_hochgurgl?lang=en&focus=R_84752_group", "feedId": "R_84752"}, {"num": "29", "level": "blue", "levelLabel": "Bleue · facile", "sector": "Hochgurgl", "length": 1390, "title": "La bleue du Wurmkogl", "text": "La nº 29 est l’une des pistes de l’enchaînement Wurmkogl–Pill publié par la station. La longueur du parcours complet ne lui est pas attribuée.", "mapUrl": "https://winter.intermaps.com/obergurgl_hochgurgl?lang=en&focus=R_84712_group", "feedId": "R_84712"}]}, "restaurants": [{"name": "ice Q", "sector": "Secteur Gaislachkogl", "areaKey": "soelden", "cuisine": "Cuisine alpine gastronomique; vins, lounge et tapas", "service": "Service à table + lounge", "rapid": false, "tableService": true, "terrace": true, "panorama": true, "highlights": "La pause panoramique et gastronomique du Gaislachkogl, à 3 048 m.", "access": "Départ : gare aval Gaislachkogl. Prendre Gaislachkogl I puis II jusqu’au sommet; suivre le cheminement piéton signalé vers ice Q. Aucune descente de piste nécessaire pour venir déjeuner. Revenir par les remontées pour éviter une descente rouge.", "mapUrl": "https://winter.intermaps.com/soelden?lang=en&focus=110097"}, {"name": "FALCON · À la carte", "sector": "Secteur Gaislachkogl", "areaKey": "soelden", "cuisine": "Cuisine régionale et internationale", "service": "Service à table", "rapid": false, "tableService": true, "terrace": true, "panorama": true, "highlights": "Le point de rendez-vous facile depuis Gaislachkogl; deux formats de service distincts.", "access": "Départ : gare aval Gaislachkogl. Monter avec Gaislachkogl I à la gare intermédiaire; suivre FALCON. Market au rez-de-chaussée, restaurant à la carte à l’étage. Aucune piste à descendre pour le rejoindre.", "mapUrl": "https://winter.intermaps.com/soelden?lang=en&focus=110118"}, {"name": "FALCON · Market", "sector": "Secteur Gaislachkogl", "areaKey": "soelden", "cuisine": "Cuisine régionale et internationale", "service": "Self-service / marché", "rapid": true, "tableService": false, "terrace": true, "panorama": true, "highlights": "Le point de rendez-vous facile depuis Gaislachkogl; deux formats de service distincts.", "access": "Départ : gare aval Gaislachkogl. Monter avec Gaislachkogl I à la gare intermédiaire; suivre FALCON. Market au rez-de-chaussée, restaurant à la carte à l’étage. Aucune piste à descendre pour le rejoindre.", "mapUrl": "https://winter.intermaps.com/soelden?lang=en&focus=110088"}, {"name": "Wirtshaus Giggijoch", "sector": "Secteur Giggijoch", "areaKey": "soelden", "cuisine": "Cuisine tyrolienne et internationale", "service": "Service à table", "rapid": false, "tableService": true, "terrace": true, "panorama": true, "highlights": "Une halte à la gare amont Giggijoch, pratique pour regrouper les skieurs.", "access": "Départ : gare aval Giggijochbahn. Monter par Giggijochbahn C30; rejoindre le restaurant au pôle de restauration de la gare amont. Aucune piste nécessaire. Depuis votre base Gaislachkogl : rejoindre la gare aval Giggijoch par le transport local; le carnet ne donne pas un enchaînement intégral à ski entre les deux.", "mapUrl": "https://winter.intermaps.com/soelden?lang=en&focus=110145"}, {"name": "Gampe Thaya", "sector": "Secteur Giggijoch", "areaKey": "soelden", "cuisine": "Spécialités de l’Ötztal; produits fermiers et fromages", "service": "Service à table", "rapid": false, "tableService": true, "terrace": true, "panorama": true, "highlights": "La halte locale : la fiche annonce des produits de la ferme et une situation sur la nº 11.", "access": "Départ : portion de la piste rouge nº 11 à Giggijoch, en amont de Gampe Thaya. Suivre la nº 11 et le fléchage de la cabane. La fiche officielle ne détaille pas chaque bifurcation ni l’enchaînement complet depuis Gaislachkogl; contrôler le plan avant de quitter le secteur.", "mapUrl": "https://winter.intermaps.com/soelden?lang=en&focus=110091"}, {"name": "Restaurant Schwarzkogl", "sector": "Secteur Giggijoch", "areaKey": "soelden", "cuisine": "Cuisine régionale et internationale", "service": "Self-service + service à table", "rapid": true, "tableService": true, "terrace": true, "panorama": true, "highlights": "Vue publiée sur le Rettenbach et le Gaislachkogl.", "access": "Départ : gare amont de Langegg. Suivre la bleue nº 23, prendre Einzeiger, puis suivre la liaison nº 24 jusqu’au restaurant, conformément au descriptif d’accès publié pour 2025. Le télésiège Einzeiger est désormais un 8 places; vérifier le fléchage actuel. Depuis Gaislachkogl intermédiaire : la source 2025 cite nº 6 → Langegg; cette approche doit être reconfirmée sur le plan 2026–2027.", "mapUrl": "https://winter.intermaps.com/soelden?lang=en&focus=110132"}, {"name": "Rettenbach Market Restaurant", "sector": "Secteur Glaciers", "areaKey": "soelden", "cuisine": "Tyrol, grill, soupes, pizza et pâtes", "service": "Self-service + Gletschertisch à table", "rapid": true, "tableService": true, "terrace": true, "panorama": true, "highlights": "Vue sur le tracé de Coupe du monde et deux formats de restauration.", "access": "Départ : arrivée de Gletscherexpress sur le Rettenbach. Rejoindre le pôle de restauration au pied du glacier selon les cheminements locaux. Pour venir d’en haut : les pistes nº 31 noire et nº 33 bleue aboutissent au secteur du restaurant; la fiche cite aussi nº 30. Les embranchements depuis Gaislachkogl ne sont pas détaillés dans cette fiche. La route et le bus glacier sont annoncés avant l’ouverture du domaine hivernal, pas comme un accès piéton garanti en mars.", "mapUrl": "https://winter.intermaps.com/soelden?lang=en&focus=110133"}, {"name": "Tiefenbach Gletscher Restaurant", "sector": "Secteur Glaciers", "areaKey": "soelden", "cuisine": "Tyrol, pizza, pâtes, soupes et pâtisseries", "service": "Self-service", "rapid": true, "tableService": true, "terrace": true, "panorama": true, "highlights": "Restaurant à la gare aval Tiefenbach, avec vue sur les hauts sommets.", "access": "Départ : gare amont Schwarze Schneid. Prendre la bleue nº 32 vers le tunnel, puis la bleue nº 38 jusqu’à la gare aval Tiefenbach et au restaurant. Depuis la gare amont Tiefenbach, rester sur la nº 38. La fiche mentionne aussi les pistes nº 36, 39 et 40 au pied du glacier; ce ne sont pas toutes des accès de même difficulté. Liaison complète depuis Gaislachkogl non détaillée ici.", "mapUrl": "https://winter.intermaps.com/soelden?lang=en&focus=110111"}, {"name": "Hohe Mut Alm", "sector": "Secteur Obergurgl", "areaKey": "gurgl", "cuisine": "Cuisine alpine et tyrolienne", "service": "Service à table", "rapid": false, "tableService": true, "terrace": true, "panorama": true, "highlights": "Panorama des hauts sommets depuis Hohe Mut.", "access": "Départ : gare aval Hohe Mut Bahn à Obergurgl. Monter par Hohe Mut I puis II; suivre l’accès signalé au restaurant à la gare amont. Aucune piste nécessaire pour venir. Si vous skiez ensuite la nº 1 : rouge au catalogue, malgré sa mention parmi les descentes les plus exigeantes de la station. Depuis Gaislachkogl : transfert routier vers Obergurgl, puis cette séquence locale.", "mapUrl": "https://winter.intermaps.com/obergurgl_hochgurgl?lang=en&focus=105853"}, {"name": "Top Mountain Star", "sector": "Secteur Hochgurgl", "areaKey": "gurgl", "cuisine": "Boissons et petite restauration panoramique", "service": "Service à table / bar", "rapid": false, "tableService": true, "terrace": true, "panorama": true, "highlights": "Le panorama à 3 030 m, avec vue lointaine annoncée vers les Dolomites.", "access": "Départ : gare aval Hochgurglbahn I à Pill. Prendre Hochgurgl I, Hochgurgl II puis Wurmkogl II, suivant la séquence du billet piéton officiel. Rejoindre le Top Mountain Star par le cheminement indiqué. Les transferts entre gares sont à vérifier sur place. Aucun itinéraire à ski facile de retour n’est garanti ici : la nº 28 est noire. Depuis Gaislachkogl : transfert routier jusqu’à Pill.", "mapUrl": "https://winter.intermaps.com/obergurgl_hochgurgl?lang=en&focus=105720"}, {"name": "Top Mountain Crosspoint", "sector": "Secteur Hochgurgl", "areaKey": "gurgl", "cuisine": "Cuisine régionale et internationale; pizzas au feu de bois", "service": "Service à table", "rapid": false, "tableService": true, "terrace": true, "panorama": true, "highlights": "Une pause à la base de Kirchenkar, accessible par la route.", "access": "Départ : entrée routière Top Mountain Crosspoint, Timmelsjochstraße 8, Hochgurgl. Rejoindre le restaurant dans le complexe qui accueille la gare aval Kirchenkarbahn. Depuis Gaislachkogl, transfert routier nécessaire vers Hochgurgl; aucune liaison à ski Sölden–Gurgl. Pour les skieurs déjà sur le domaine : le carnet ne prétend pas vérifier une chaîne de pistes complète vers ce bâtiment.", "mapUrl": "https://winter.intermaps.com/obergurgl_hochgurgl?lang=en&focus=105725"}, {"name": "Nederhütte", "sector": "Secteur Obergurgl", "areaKey": "gurgl", "cuisine": "Cuisine tyrolienne et internationale", "service": "Service à table", "rapid": false, "tableService": true, "terrace": true, "panorama": true, "highlights": "La halte conviviale d’Obergurgl, avec musique annoncée selon le programme.", "access": "Départ : partie basse du secteur Roßkar / Familienabfahrt à Obergurgl. Le restaurant est positionné sur le plan officiel à 2 104 m. La chaîne de bifurcations et le numéro exact du dernier accès ne sont pas suffisamment documentés dans les sources retenues : suivre la signalétique Nederhütte et demander confirmation avant de descendre. Depuis Gaislachkogl : transfert routier vers Obergurgl nécessaire.", "mapUrl": "https://winter.intermaps.com/obergurgl_hochgurgl?lang=en&focus=105736"}]}</script>
 <script id="leaflet-js">
 /* @preserve
@@ -1126,10 +1127,10 @@ function todayIndex(){const n=NOW();return V.programme.findIndex(d=>dayKey(n,d.f
 function renderHeader(){
   const tzA=V.programme[0]?.fuseau||'America/Toronto';
   const a=zoned(V.debut,'12:00',tzA),b=zoned(V.fin,'12:00','Europe/Vienna');
-  $('#h-title').textContent=V.titre||'Sölden 2027';
-  $('#h-sub').textContent=V.sousTitre||'';
-  $('#h-dates').textContent=fmt(a,'UTC',{day:'numeric'})+' – '+fmt(b,'UTC',{day:'numeric',month:'long',year:'numeric'})+' · Ötztal, Autriche';
-  document.title=(V.titre||'Sölden 2027')+' · Voyage de ski';
+  $('#h-title').textContent=V.titre||'Gendronski Sölden';
+  $('#h-sub').textContent=V.lieu||'Ötztal · Autriche';
+  $('#h-dates').textContent=V.datesTexte||(fmt(a,'UTC',{day:'numeric'})+' au '+fmt(b,'UTC',{day:'numeric',month:'long',year:'numeric'}));
+  document.title=(V.titre||'Gendronski Sölden')+' · '+(V.datesTexte||'');
 }
 
 /* ---------- Rendu : accueil ---------- */

diff --git a/affiche-bagages.html b/affiche-bagages.html
@@ -3,7 +3,7 @@
 <head>
 <meta charset="utf-8">
 <meta name="viewport" content="width=device-width,initial-scale=1">
-<title>Bagages pour l’avion · Sölden 2027</title>
+<title>Bagages pour l’avion · Gendronski Sölden</title>
 <meta name="theme-color" content="#13509f">
 <link rel="icon" type="image/png" href="icon-192.png">
 <style>
@@ -45,7 +45,7 @@ h1{margin:0;font-size:38px;line-height:1.05;letter-spacing:-1px}
 <main class="sheet">
   <div class="top">
     <div><p class="over">Voyage de ski en groupe</p><h1>Qu’est-ce qu’on apporte<br>dans l’avion?</h1></div>
-    <div class="trip"><b id="t-titre">Sölden 2027</b><span id="t-dates">5 au 13 mars 2027</span></div>
+    <div class="trip"><b id="t-titre">Gendronski Sölden</b><span id="t-dates">5 au 13 mars 2027</span></div>
   </div>
 
   <div class="cols">
@@ -76,7 +76,7 @@ h1{margin:0;font-size:38px;line-height:1.05;letter-spacing:-1px}
   <div class="foot"><span>Voyage organisé par Gendron Ski</span><span id="f-url"></span></div>
 </main>
 
-<script id="defaut" type="application/json">{"titre": "Sölden 2027", "bagages": {"soute": [{"t": "Sac à skis", "d": "Skis et bâtons"}, {"t": "Sac à bottes", "d": "Bottes de ski"}, {"t": "1 bagage de 23 kg", "d": "Vêtements et effets personnels"}], "noteSoute": "Le sac à skis et le sac à bottes sont en plus du bagage de 23 kg.", "cabine": [{"t": "1 bagage à main", "d": "Format cabine, dans le compartiment au-dessus du siège"}, {"t": "1 sac personnel", "d": "Sac à dos ou sac à main, sous le siège devant vous"}], "important": "Très important : les batteries externes et les batteries au lithium voyagent avec vous en cabine, jamais en soute.", "conseils": ["Gardez dans votre bagage à main : passeport, médicaments, chargeur et une tenue de rechange.", "Mettez une étiquette à votre nom sur chaque sac."]}}</script>
+<script id="defaut" type="application/json">{"titre": "Gendronski Sölden", "sousDates": "5 au 13 mars 2027", "bagages": {"soute": [{"t": "Sac à skis", "d": "Skis et bâtons"}, {"t": "Sac à bottes", "d": "Bottes de ski et casque de ski"}, {"t": "1 bagage de 23 kg", "d": "Vêtements et effets personnels"}], "noteSoute": "Le sac à skis et le sac à bottes sont en plus du bagage de 23 kg. Ensemble, ils ne doivent pas dépasser 23 kg.", "cabine": [{"t": "1 bagage à main", "d": "Format cabine, dans le compartiment au-dessus du siège"}, {"t": "1 sac personnel", "d": "Sac à dos ou sac à main, sous le siège devant vous"}], "important": "Très important : les batteries externes et les batteries au lithium voyagent avec vous en cabine, jamais en soute.", "conseils": ["Gardez dans votre bagage à main : passeport, médicaments, chargeur et vos batteries.", "Mettez une étiquette à votre nom sur chaque sac."]}}</script>
 <script>
 (function(){
   var ICONS={
@@ -96,7 +96,7 @@ h1{margin:0;font-size:38px;line-height:1.05;letter-spacing:-1px}
     if(b.important){var im=b.important.replace(/^Très important\s*:\s*/i,'');document.getElementById('important').textContent=im.charAt(0).toUpperCase()+im.slice(1);}
     document.getElementById('tips').innerHTML=(b.conseils||[]).map(function(c){return'<li>'+esc(c)+'</li>';}).join('');
     if(v.titre)document.getElementById('t-titre').textContent=v.titre;
-    if(v.sousDates)document.getElementById('t-dates').textContent=v.sousDates;
+    if(v.sousDates||v.datesTexte)document.getElementById('t-dates').textContent=v.sousDates||v.datesTexte;
   }
   render(JSON.parse(document.getElementById('defaut').textContent));
   if(location.protocol!=='file:'){

diff --git a/installer.html b/installer.html
@@ -3,11 +3,11 @@
 <head>
 <meta charset="utf-8">
 <meta name="viewport" content="width=device-width,initial-scale=1">
-<title>Installer l’app · Sölden 2027</title>
+<title>Installer l’app · Gendronski Sölden</title>
 <meta name="description" content="Comment installer l’app du voyage de ski Sölden 2027 sur iPhone et Android.">
 <meta name="theme-color" content="#13509f">
 <meta property="og:type" content="website">
-<meta property="og:title" content="Installer l’app du voyage Sölden 2027">
+<meta property="og:title" content="Installer l’app · Gendronski Sölden, 5 au 13 mars 2027">
 <meta property="og:description" content="Code QR et étapes pour installer l’app du voyage sur iPhone et Android.">
 <meta property="og:image" content="https://monaccompagnateur.ca/solden-voyage-2027/og.jpg">
 <meta name="twitter:card" content="summary_large_image">
@@ -70,7 +70,7 @@ ol.steps b{display:block}
 <body>
 <header><div class="wrap">
   <p class="over">Voyage de ski · 5 au 13 mars 2027</p>
-  <h1>L’app du voyage Sölden 2027</h1>
+  <h1>Gendronski Sölden<br><span style="font-size:.62em">5 au 13 mars 2027</span></h1>
   <p>Programme jour par jour, annonces du groupe, pistes ouvertes en direct et carte GPS, directement dans votre téléphone. Gratuite, sans compte ni App Store.</p>
 </div></header>
 

diff --git a/sw.js b/sw.js
@@ -1,6 +1,6 @@
 // Service worker généré par html2pwa.py
 // Changez CACHE à chaque mise à jour pour forcer l'actualisation chez les utilisateurs.
-const CACHE = 'solden-2027-voyage-de-ski-3379cf7c';
+const CACHE = 'gendronski-solden-2027-f33fbd0e';
 const CORE = ['./', 'index.html', 'manifest.webmanifest',
               'icon-192.png', 'icon-512.png', 'icon-maskable-512.png', 'apple-touch-icon.png',
               'voyage.json', 'hero.webp', 'installer.html', 'affiche-bagages.html', 'og.jpg'];
@@ -11,7 +11,7 @@ self.addEventListener('install', e => {
 
 self.addEventListener('activate', e => {
   e.waitUntil(caches.keys()
-    .then(keys => Promise.all(keys.filter(k => k.startsWith('solden-2027-voyage-de-ski-') && k !== CACHE).map(k => caches.delete(k))))
+    .then(keys => Promise.all(keys.filter(k => k.startsWith('gendronski-solden-2027-') && k !== CACHE).map(k => caches.delete(k))))
     .then(() => self.clients.claim()));
 });
 
